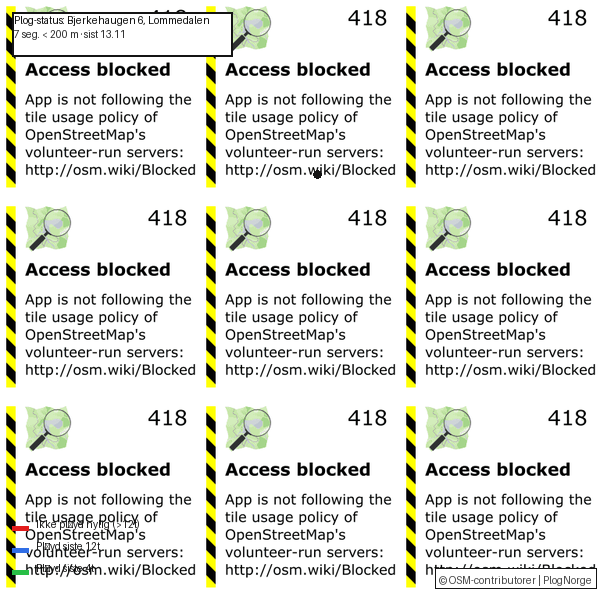
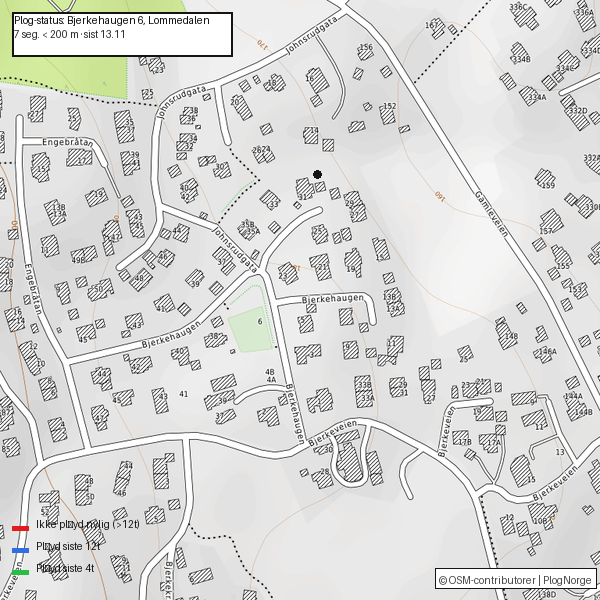
Fix blocked tiles: switch to OpenTopoMap source

diff --git a/render_map.py b/render_map.py
@@ -88,7 +88,7 @@ def fetch_base_map():
     print(f"  tile center [{x_t},{y_t}] for Bjerkehaugen 6")
     
     sources=[
-        f"https://tile.openstreetmap.org/{ZOOM}"   # Standard OSM tiles
+        f"https://tile.opentopomap.org/{ZOOM}"   # OpenTopoMap (OSM blocked)
     ]
     tiles=[]
     for src_url in sources:
